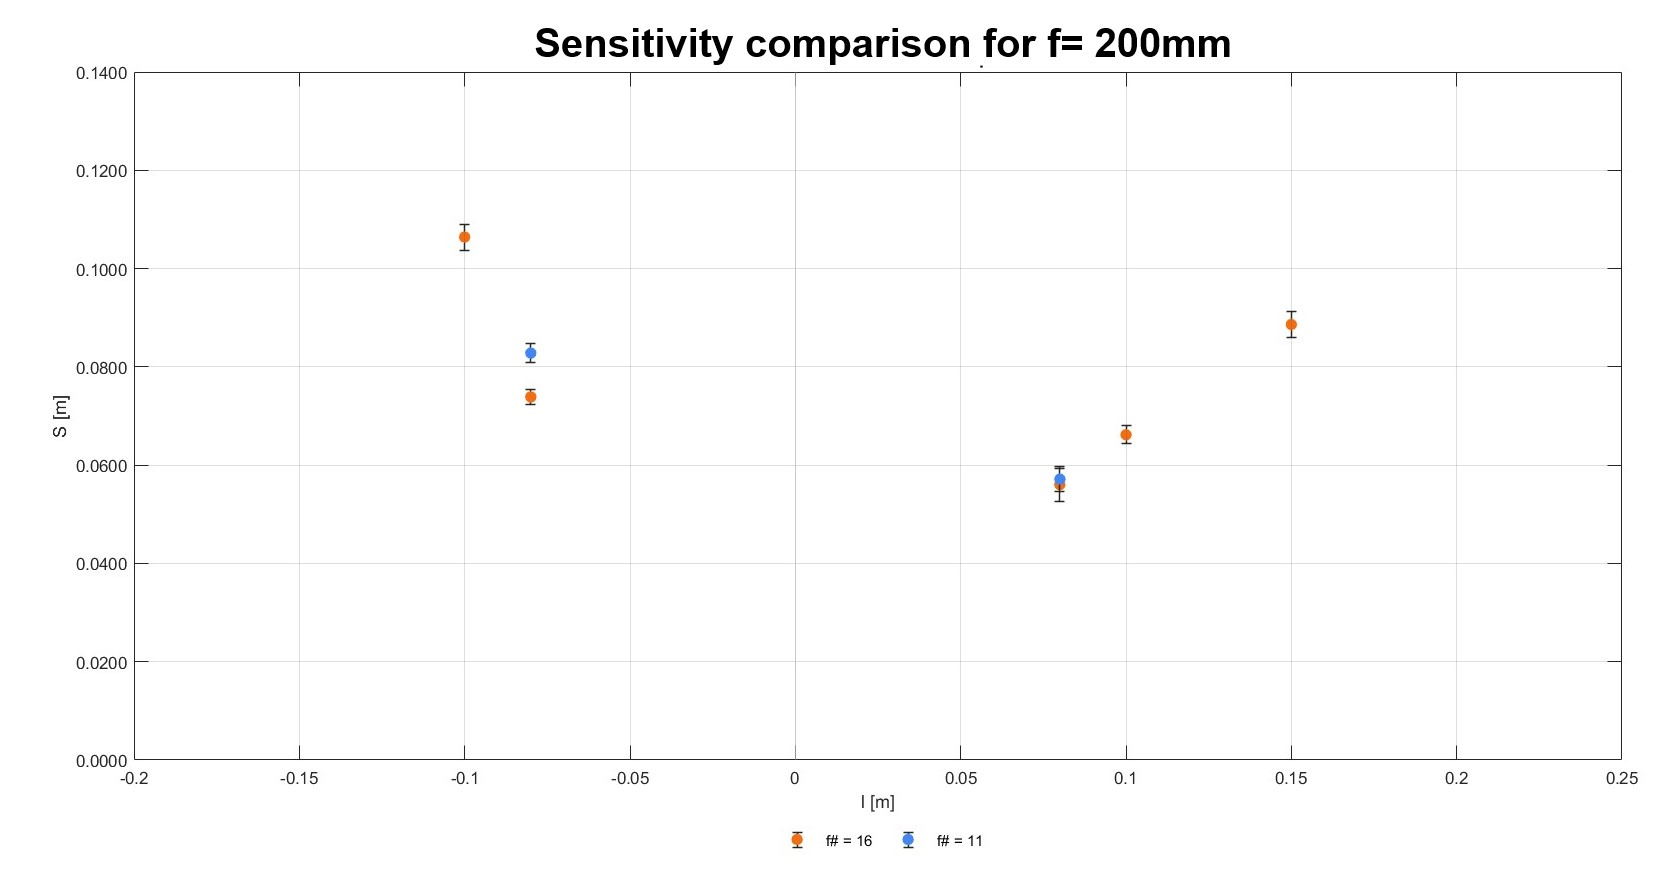
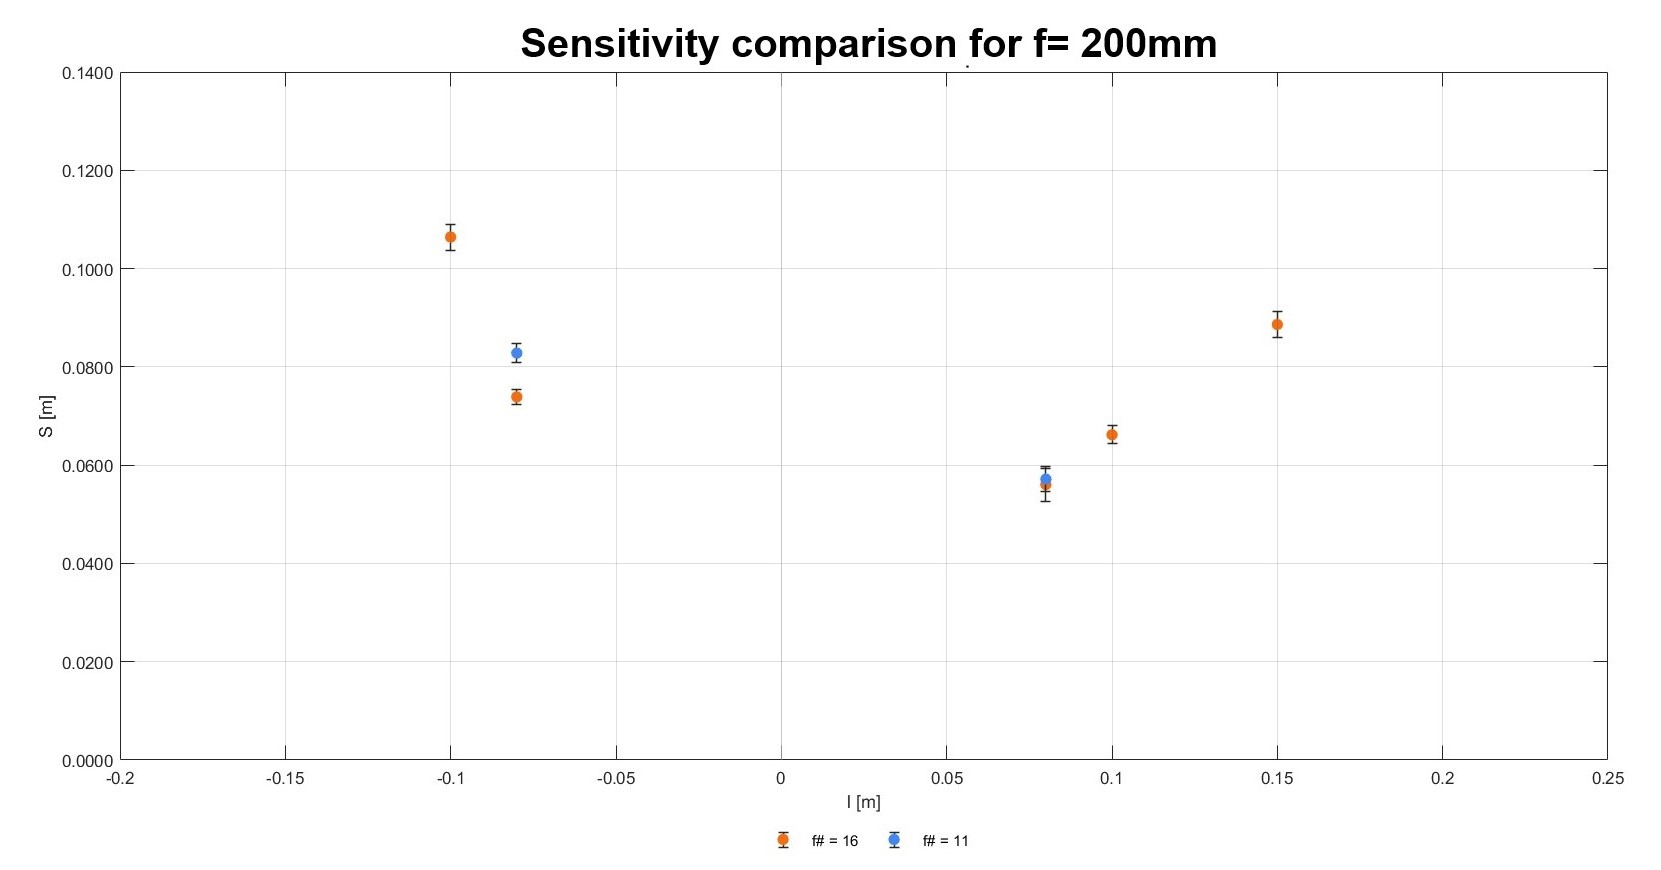
Updates from Overleaf

diff --git a/mainmatter/06_results.tex b/mainmatter/06_results.tex
@@ -228,16 +228,15 @@ In this section, the results, errors and associated uncertainties of the angled 
 \section{Speckle Pattern Investigation Results}
 \label{section: Speckle Pattern Experiment Results}
 
-Faced with the difficulties in creating a satisfiable speckle pattern in the first experimental campaign, the second experiment aimed to investigate ways to generate a finer average speckle size, try to produce a Rayleigh distribution at the lens pupil and compare the implications of generating a speckle through direct diffusion or by projecting the laser into a surface. Tables \ref{tab: speckle results direct} and \ref{tab: speckle results projected}
-present the data obtained with the experimental setups described in Section \ref{section: Speckle Pattern Investigation} with the conditions displayed in Tables \ref{tab: speckle investigation matrix} for direct speckles and \ref{tab: projected speckle matrix} for projected speckles. This section will discuss the computed average speckle sizes obtained at each point, the deviation from the Rayleigh limit of equation \ref{equation: Rayleigh Limit} and a quantification of the experiment associated uncertainties.
+Faced with the difficulties in creating a satisfiable speckle pattern in the first experimental campaign, the second experiment aimed to investigate ways to generate a finer average speckle size, try to produce a Rayleigh distribution at the lens pupil and compare the implications of generating a speckle through direct diffusion or by projecting the laser into a surface. Tables \ref{tab: speckle results direct} and \ref{tab: speckle results projected} present the data obtained with the experimental setups described in Section \ref{section: Speckle Pattern Investigation} with the conditions displayed in Tables \ref{tab: speckle investigation matrix} for direct speckles and \ref{tab: projected speckle matrix} for projected speckles. This section will discuss the computed average speckle sizes obtained at each point, the deviation from the Rayleigh limit of equation \ref{equation: Rayleigh Limit} and a quantification of the experiment's associated uncertainties.
 
 
 %The main goals were to better understand the creation of a finer speckle pattern assess how the average speckle size correlates to the Rayleigh limit of Equation \ref{equation: Rayleigh Limit} and also compare the generation of speckles through direct ground glass diffusion and by projecting the laser into a surface.
 
 \begin{table}[htbp]
     \centering
-    \caption{Speckle sizes measured with directed speckles, for the configurations of Table \ref{tab: speckle investigation matrix}. $M_{ag_{exp}}$ is the magnification measured with the calibration plate, $\Delta s_{th}$ the size predicted by the Rayleigh criterion and $\Delta s_{exp}$ the measured size, reported both by the DaVis estimator and by the one-dimensional autocorrelation method of Hamarová et al. \cite{Hamarova2016}. The deviation columns give the difference of each measurement from the prediction. DaVis returned no value for point 10. The column $u_{tot}$ is the combined standard uncertainty of $\Delta s_{exp}$ obtained by the autocorrelation method, and it does not apply to the DaVis value. It combines in quadrature the contribution of the flattening filter, computed for each point as the sensitivity of the measured size to the filter width multiplied by the range of widths for which the autocorrelation tail remains within its noise floor, and the spread between the estimators reported by Hamarová et al. \cite{Hamarova2016}. Points 1 to 13 vary the aperture and the ground glass distance, whereas points 14 to 28 hold both fixed and sweep the magnification.}
-    \label{tab: speckle results direct}
+    \caption{Speckle sizes measured during experimental campaign, using the optical configurations of Table \ref{tab: speckle investigation matrix}. $M_{ag_{exp}}$ is the magnification measured with the calibration plate, $\Delta s_{th}$ is the size predicted by the Rayleigh limit and $\Delta s_{exp}$ is the estimated experimental size, reported both by the DaVis function and by the method of Hamarová et al. \cite{Hamarova2016}. The deviation columns give the difference of each measurement from the prediction.  The column $u_{tot}$ is the combined standard uncertainty of $\Delta s_{exp}$. Points 1 to 13 vary the aperture and the ground glass distance, whereas points 14 to 28 hold both fixed and sweep the magnification. Points 29 to 31 were obtained with projected speckles, using the parameters of Table \ref{tab: projected speckle matrix}.}
+    \label{tab: speckle results}
     \begin{tabular}{lrrrrrrrrr}
         \toprule
         Point & $f_\#$ & $d_{GG}$ & $M_{ag_{exp}}$ & $\Delta s_{th}$ & \multicolumn{3}{c}{Hamarová} & \multicolumn{2}{c}{DaVis} \\
@@ -274,24 +273,6 @@ present the data obtained with the experimental setups described in Section \ref
         26 & 22.63 &  300 & 0.074 &  2.89 &  2.72 &  $-0.17$ &  3.05 &   1.65 &  $-1.23$ \\
         27 & 22.63 &  300 & 0.054 &  2.83 &  2.76 &  $-0.07$ &  1.82 &   1.71 &  $-1.12$ \\
         28 & 22.63 &  300 & 0.035 &  2.78 &  3.09 &  $+0.31$ &  5.47 &   1.87 &  $-0.91$ \\
-        \bottomrule
-    \end{tabular}
-\end{table}
-
-Table \ref{tab: speckle results direct} shows average speckle size obtained experimentally for each point. At a first glance it is already possible to see that the order of magnitude of these results is much similar to the predicted values compared  than the ones obtained previously, in Table \ref{tab: angled glass speckle results}, with deviations that span from 0.07 px to a maximum of 2.88 px. Nevertheless the relative error is still large overall, with the worst result at the points with subpixel speckles and close to 5 px. The error also vastly surpasses the uncertainty associated with magnification, which stayed within 5\% for a 10\% deviation in $M_{ag}$, and post-processing, where the filter uncertainty maximum was 11.36\% and the estimator quantified by Hamarová et al. \cite{Hamarova2016} within 1.5\%. Regardless, the data obtained provides a better fit to the Rayleigh diffraction prediction, showing that the equation can be used as a rough preliminary estimator of the speckle size. The results also allows for the identification of useful trends and comparisons in speckle production, as will be shown.
-
-Table \ref{tab: speckle results projected} shows the results of the points obtained with projected speckles. Compared to direct speckles, the projected speckles show a similar deviation to theory and an overall smaller speckle size, which also evident through Figure \ref{fig: speckle f-number sweep}. The results are too similar to the direct speckle approach to discriminate which method to use based on speckle quality. Therefore, the trade-off on how to create the speckle pattern comes more to practical considerations than on its speckle characteristics. Projected speckles might be preferable in applications where only one optical access is available; where powerful lasers are being used that could damage the camera or when the double-pass method of Meier \& Rösgen \cite{Meier&Roesgen2013} needs to be used for increased sensitivity, but it might be more vulnerable to vibrations and decorrelation \cite{Buhlmann2020}. Whereas direct speckle provides more intensity, which allows for lower exposures; is more robust against vibrations and decorrelation; and might be preferable when a see-through optical access is available.
-
-\begin{table}[htbp]
-    \centering
-    \caption{Speckle sizes measured with projected speckles, for the configurations of Table \ref{tab: projected speckle matrix}. The columns follow the convention of Table \ref{tab: speckle results direct}. The three points share the same optical layout and vary only the aperture.}
-    \label{tab: speckle results projected}
-    \begin{tabular}{lrrrrrrrrr}
-        \toprule
-        Point & $f_\#$ & $d_{GG}$ & $M_{ag_{exp}}$ & $\Delta s_{th}$ & \multicolumn{3}{c}{Hamarová} & \multicolumn{2}{c}{DaVis} \\
-        \cmidrule(lr){6-8} \cmidrule(lr){9-10}
-              & [--] & [mm] & [--] & [px] & $\Delta s_{exp}$ & $\Delta s$ dev. & $u_{tot}$ & $\Delta s_{exp}$ & $\Delta s$ dev. \\
-              &      &      &      &      & [px] & [px] & [\%] & [px] & [px] \\
         \midrule
         29 &  4.00 &  300 & 0.457 &  0.67 &  1.59 &  $+0.92$ &  1.54 &   1.22 &  $+0.55$ \\
         30 & 11.31 &  300 & 0.457 &  1.90 &  2.21 &  $+0.31$ &  1.80 &   1.44 &  $-0.46$ \\
@@ -299,6 +280,20 @@ Table \ref{tab: speckle results projected} shows the results of the points obtai
         \bottomrule
     \end{tabular}
 \end{table}
+
+Table \ref{tab: speckle results} and Figure \ref{} shows the average speckle size obtained experimentally for each point. There you can see the experimental speckle sizes obtained using DaVis' function together with the ones computed through Hamarová et al.'s autocorrelation method \cite{Hamarova2016}. Both methods resulted in very different magnitudes with DaVis ranging from 1.20 to 2.41 px, while the autocorrelation spans from 1.62 to 4.59 px. Despite this difference, both methods reproduce the same trends quite reliably as shown by Figure \ref{}. Since it is known how the Hamarovás' estimate works, contrary to DaVis' estimator, and both reproduce the same behavior, from now on the discussion will focus only on the results obtained with the autocorrelation method.
+
+%Add speckle size per point picture
+
+Regarding the Rayleigh limit reproduction, it's possible to see that the results are much more similar to the predicted values in order of magnitude if compared to the ones collected previously in Table \ref{tab: angled glass speckle results}. The deviations now span from 0.07 px to a maximum of 2.88 px, instead of 9.59 to 22.30 px from before. Nevertheless the relative error is still large overall, with the worst results at the points with subpixel speckles and close to 5 px. The error also vastly surpasses the uncertainty associated with magnification, which stayed within 5\% for a 10\% deviation in $M_{ag}$, and post-processing, which had an maximum of 11.45\%. Regardless, the data obtained provides a better fit to the Rayleigh diffraction prediction, showing that the equation can be used as a rough preliminary estimator of the speckle size. The results also allows for the identification of useful trends and comparisons in speckle production, as will be shown.
+
+Points 29 to 31 of Table \ref{tab: speckle results} were obtained with projected speckles. Compared to direct speckles, the projected speckles show a similar deviation to theory and an overall smaller speckle size, which is hinted by Figure \ref{fig: speckle f-number sweep}. The results are too similar to the direct speckle approach to discriminate which method to use based on speckle size. Therefore, the trade-off on how to create the speckle pattern comes more to practical considerations than on its speckle characteristics. Projected speckles might be preferable in applications where only one optical access is available; where powerful lasers are being used that could damage the camera or when the double-pass method of Meier \& Rösgen \cite{Meier&Roesgen2013} needs to be used for increased sensitivity. Whereas direct speckle provides more intensity, which allows for lower exposures; and might be preferable when a see-through optical access is available. The vulnerability to decorrelation mentioned in chapter 3, and experienced by Bühlmann \cite{Buhlmann2020} doesn't seem to be an exclusive issue to projected speckle but transversal to both configurations. It is caused when the diffuser is submitted to some degree of motion or vibration, specially when positioned very close to the test section. 
+
+%However, it might be more vulnerable to vibrations and decorrelation \cite{Buhlmann2020}, specially in cases where the background is very close to the test-section.
+
+% The vulnerability to decorrelation mentioned in chapter 3 doesn't seem to be an exclusive issue to projected speckle but transversal to both configurations. It is caused when the diffusor is submitted to some degree of motion or vibration, specially when positioned very close to the test section. 
+
+To better judge the deviation of the experiment, an uncertainty budget was constructed to compute the total uncertainties. They are displayed by point in Table \ref{tab: speckle results direct}. This total uncertainty corresponds to the ones obtained for the implementation of Harmanová et al.'s method and is reported in Table \ref{tab: speckle size uncertainty}. In their paper, the researchers reported an uncertainty of 1.5\% associated to their estimator. As a consequence, the budget is dominated by the gaussian filter implemented. The gaussian standard deviation was taken as a parameter and varied such that the tail of the autocorrelation function result after 60px was minimized. The half-width of the method is, therefore, the achieved standard deviation and its individual uncertainty, assuming rectangular distribution is $u = a / \sqrt{3}$. The contribution is $u$ times the sensitivity coefficient. In the last row, the combined figure of the post-processing uncertainty can be found.
 
 \begin{table}[htbp]
     \centering
@@ -316,36 +311,38 @@ Table \ref{tab: speckle results projected} shows the results of the points obtai
     \end{tabular}
 \end{table}
 
-The 
+Now that the error and uncertainties of the results have been discussed, the data can be plotted to better understand its behavior, such as f-stop dependency. The various $f_\#$ sweeps made during the experimental campaign allows to evaluate if the interference waves became diffraction limited at the pupil. Figure \ref{fig: speckle f-number sweep} shows the trend of average speckle size with f-stop number for 4 different configurations. All lines follow the characteristic increasing trend of a developed subjective speckle, which follows equation \ref{equation: Rayleigh Limit}, and signals that the interference front is becoming diffraction limited at the lens pupil \cite{Goodman2020}. The red and yellow lines both share the same $d_{GG}$ what makes them viable for direct comparison. Curiously, it appears that the increased magnification of the red line caused practically no effect in the average speckle size, displaying almost the same values as the yellow line. The same insensitivity to magnification was also experienced through points 14-28 shown in Figure \ref{fig: speckle magnification sweep}. Looking at the purple line compared to the latter two, it appears that the different $d_{GG}$ introduced some difference in the speckle size, with the purple exceeding the red by 0.7, 0.25 and 0.33 px for $f_\#$ 4,11,22 respectively, although the difference is only subpixel. In green, the projected speckle trend can also be analyzed. It demonstrates that projected speckles are generally smaller, presenting smaller speckles even to yellow which has a lower magnification than green. The Figure shows some promising trends as there is a clear dependence on $f_\#$ and it indicates a tendency of projected to be smaller than direct speckles. However, it also shows an insensitivity to the optical magnification, contradicting equation \ref{equation: Rayleigh Limit}, and the effect of $d_{GG}$ which will be further discussed next.
 
-The various $f_\#$ sweeps made during the experimental campaign allows to evaluate if the interference waves became diffraction limited at the pupil. Figure \ref{fig: speckle f-number sweep} shows the trend of average speckle size with f-stop number for 4 different configurations. All lines follow the characteristic increasing trend of a developed subjective speckle, which follows equation \ref{equation: Rayleigh Limit}, and signals that the interference front is becoming diffraction limited at the lens pupil \cite{Goodman2020}. The red and yellow lines both share the same $d_{GG}$ what makes them viable for direct comparison. Curiously, it appears that the increased magnification of the red line caused practically no effect in the average speckle size, displaying almost the same values for equal f-stop as the yellow line. The same insensitivity to magnification was also experienced through points 14-28 which will be treated later. Looking at the purple line compared to the latter two, it appears that the different $d_{GG}$ introduced some difference in the speckle size, with the purple exceeding the red by 0.7, 0.25 and 0.33 px for $f_\#$ 4,11,22 respectively. In green, the projected speckle trend can also be analyzed. It demonstrates that projected speckles are generally smaller, presenting smaller speckles even to yellow which has a lower magnification than green. The Figure shows some promising trends as there is a clear dependence on $f_\#$ and it indicates a tendency of projected to be smaller than direct speckles. However, it also shows an insensitivity to the optical magnification, contradicting equation \ref{equation: Rayleigh Limit}, and the effect of $d_{GG}$ which will be further discussed next.
-
-\begin{figure}[h]
+\begin{figure}[htbp]
     \centering
-    \includegraphics[width=0.7\textwidth]{figures/speckle exp f-number sweep.jpg}
+    \includegraphics[width=\textwidth]{figures/speckle exp f-number sweep.jpg}
     \caption{Average speckle size versus f-stop number for the four aperture sweeps of the speckle investigation campaign. The red and yellow lines correspond to points 1-3 and 4-6, which share $d_{GG} = 740$ mm at two different magnifications. The purple line corresponds to points 11-13, acquired at $d_{GG} = 300$ mm, and the green line to points 29-31, obtained with projected speckles at the same $d_{GG}$}
     \label{fig: speckle f-number sweep}
 \end{figure}
 
 
-It is possible to verify the influence of the beam diameter in the speckle generation by plotting the points where only $d_{GG}$ was varied. Figure \ref{fig: speckle dGG sweep} shows that the average speckle size remains quite consistent for high $d_{GG}$, as it varies from 2.91 px at 190mm, dips to 2.29 px at 450 mm and goes to 2.71 px at 740mm. This variation is consistent with the findings of Figure \ref{fig: speckle f-number sweep}. It shows that $d_{GG}$ can increase the speckle size but for large distances the spread is practically subpixel. However, the figure also shows a spike at low $d_{GG}$ when the beam diameter is small, reaching 4.59 px at 100mm with beam ratio of 1.25. This data supports the hypothesis that the larger speckle size in the angled glass experiment was caused by the small diameter of the laser when it hit the 12.7cm ground glass diffuser. The fact that the speckle changed less for larger distances is also backed up by the literature, which doesn't mention the effect of the laser diameter in the speckle generation. In addition, it means that, when designing the laser optical setup, an experimentalist must only worry about expanding the laser beam to fill the desired field of view.
+Since the beam was expanded through a convergent lens, the distance between that lens and the ground glass diffuser is a proxy to the beam diameter, therefore, it is possible to verify the influence of the beam diameter in the speckle generation by plotting the points where only $d_{GG}$ was varied. Figure \ref{fig: speckle dGG sweep} shows that the average speckle size remains quite consistent for high $d_{GG}$, as it varies from 2.91 px at 190mm, dips to 2.29 px at 450 mm and goes to 2.71 px at 740mm. This variation is consistent with the findings of Figure \ref{fig: speckle f-number sweep}. It demonstrates that $d_{GG}$ can increase the speckle size but for large distances the spread is practically subpixel. However, the figure also shows a spike at low $d_{GG}$ when the beam diameter is small, reaching 4.59 px at 100mm with beam ratio of 1.25. For the DaVis function, the envelope was so small and the speckle so big that it failed to calculate it. The effect can be better visualized through Figure \ref{} which displays side-by-side the captured speckle patterns for points 5, 8 and 10 respectively. This data supports the hypothesis that the larger speckle size in the angled glass experiment was caused by the small diameter of the laser when it hit the 1.27cm ground glass diffuser. The fact that the speckle size changed less for larger distances is also backed up by the literature, which doesn't mention the effect of the laser diameter in the speckle generation. In addition, it means that, when designing the laser optical setup, an experimentalist must only worry about expanding the laser beam to fill the desired field of view.
 
-\begin{figure}[h]
+\begin{figure}[htbp]
     \centering
-    \includegraphics[width=0.7\textwidth]{figures/Speckle d_GG Sweep.jpg}
+    \includegraphics[width=\textwidth]{figures/Speckle d_GG Sweep.jpg}
     \caption{Average speckle size versus the distance between the beam expander lens and the ground glass diffuser, for points 5 and 7-10 of Table \ref{tab: speckle results direct}, all acquired at $f_\# = 11.31$ and $M_{ag_{exp}} = 0.296$}
     \label{fig: speckle dGG sweep}
 \end{figure}
 
+%Add the images of speckle patterns of point 5, 8, 10 side by side
 
-To better assess the effect of optical magnification in the speckle generation process, a sweep of the focal distance was conducted through points 14-28 and is shown in Figure \ref{fig: speckle magnification sweep}. It is worth mentioning that the magnification value of these points is less accurate than the others, as the focal distance was obtained through the distance marks of the camera lens. Nevertheless, the figure shows, for a different $d_{GG}$, the same speckle size insensitivity to optical magnification that was identified in Figure \ref{fig: speckle f-number sweep}. ...
 
-\begin{figure}[h]
+To better assess the effect of optical magnification in the speckle generation process, a sweep of the focal distance was conducted through points 14-28 and is shown in Figure \ref{fig: speckle magnification sweep}. It is worth mentioning that the magnification value of these points is less accurate than the others, as the focal distance was obtained through the distance marks of the camera lens. Nevertheless, the figure shows, for a different $d_{GG}$, the same speckle size insensitivity to optical magnification that was identified in Figure \ref{fig: speckle f-number sweep}. That effectively contradicts the Rayleigh diffraction limit equation and reduces the amount of control variables an experimentalist would have when designing the experimental setup.
+
+\begin{figure}[htbp]
     \centering
-    \includegraphics[width=0.7\textwidth]{figures/speckle exp mag sweep.jpg}
+    \includegraphics[width=\textwidth]{figures/speckle exp mag sweep.jpg}
     \caption{Average speckle size versus optical magnification for points 14-28 of Table \ref{tab: speckle results direct}, acquired at a fixed $f_\# = 22.63$ and $d_{GG} = 300$ mm. The magnification of these points was obtained from the distance marks of the camera lens rather than with the calibration plate}
     \label{fig: speckle magnification sweep}
 \end{figure}
+
+The speckle pattern investigation campaign allowed for the study of the speckle generation process. It successfully reproduced finer speckles than the angled glass experiment, showed the dependency of the speckle size to the f-stop number, it investigated the effect of a small incidence beam in the diffuser and compared direct with projected speckle. However, the data showed unexpected insensitivity to magnification variations and still deviated significantly from the speckle predicted through the Rayleigh limit. It is worth reiterating that the speckle generation process is a complex intrinsically random phenomenon and to treat it with much more detail would be out of the scope of this thesis. For now, the data at hand allows to define a laser speckle generator capable of producing speckles within the 2-5 pixel range. Therefore, the findings of this campaign are enough to proceed to the correct application of Laser Speckled BOS to image a real schlieren object, in this case a compressible jet.
 
 
 \section{Compressible Jet Experiment Results}
